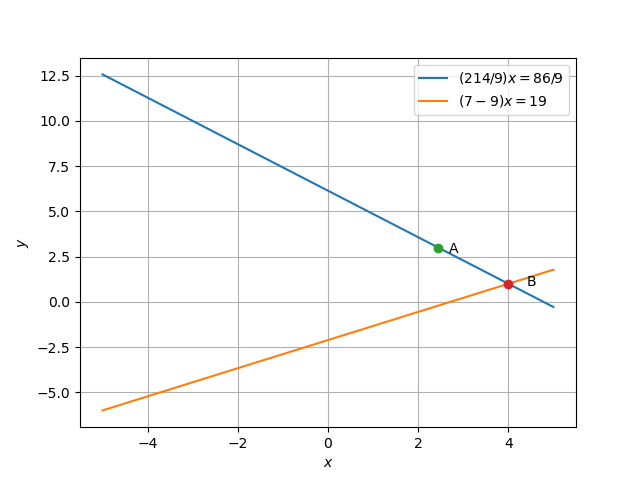
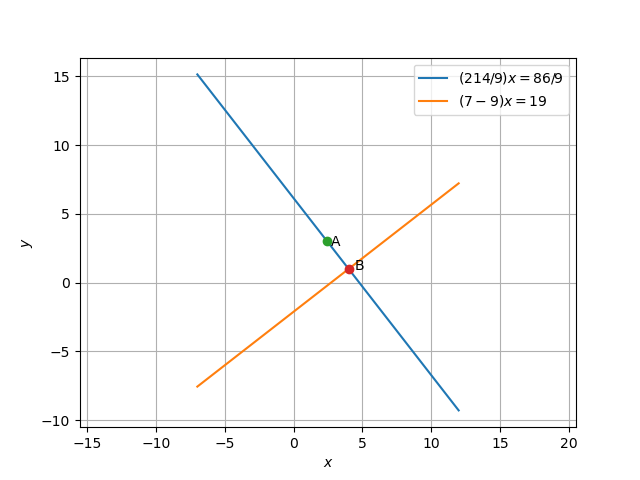
11.10.3.10 fig adjusted

diff --git a/11.10.3.10/codes/ans.py b/11.10.3.10/codes/ans.py
@@ -60,6 +60,4 @@ plt.ylabel('$y$')
 plt.legend(loc='best')
 plt.grid()
 plt.axis('equal')
-plt.show()
-
-# plt.savefig('/home/lokesh/EE2802/EE2802-Machine_learning/11.10.3.10/figs/lines.png')
+plt.savefig('/home/lokesh/EE2802/EE2802-Machine_learning/11.10.3.10/figs/lines.png')
